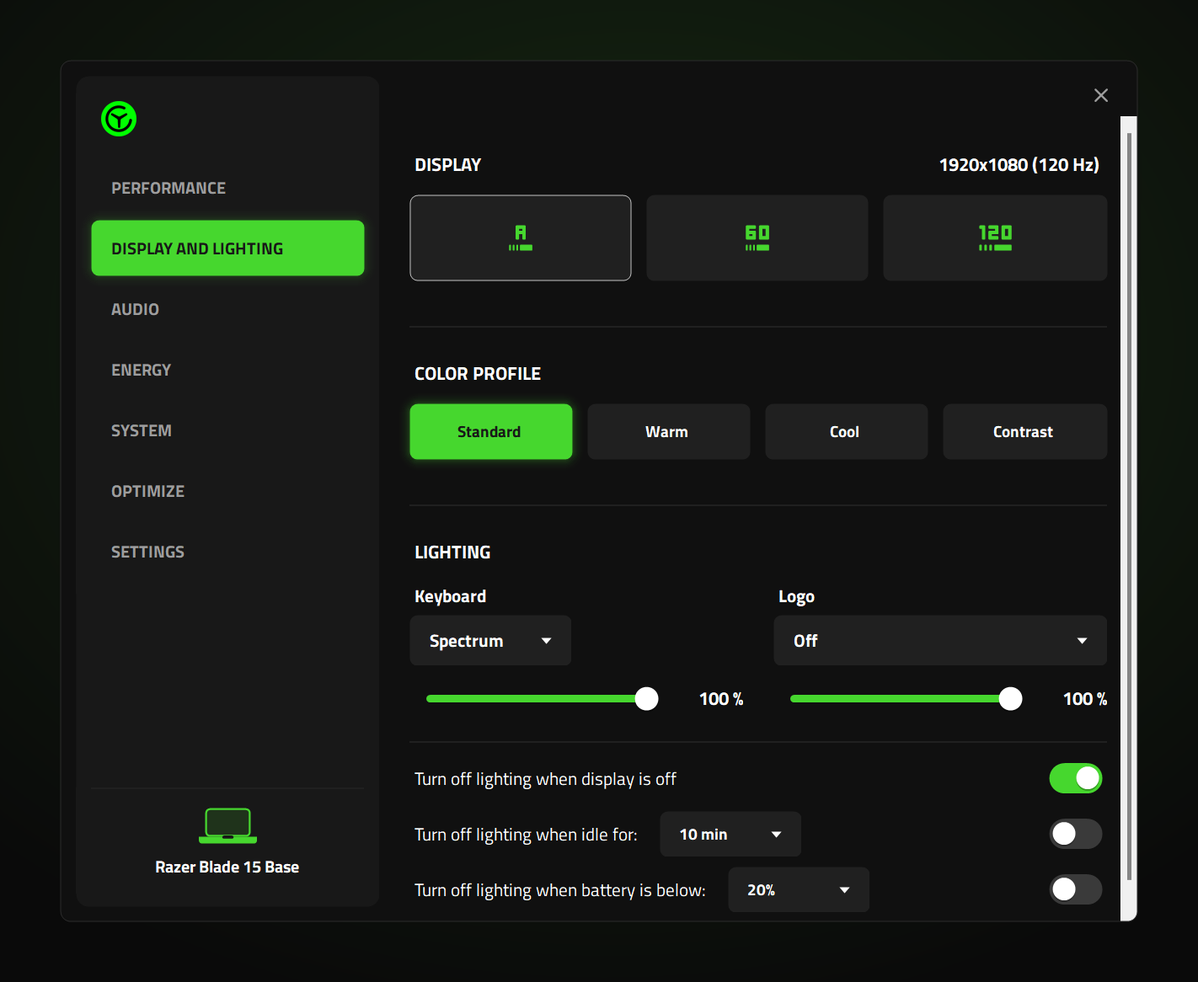
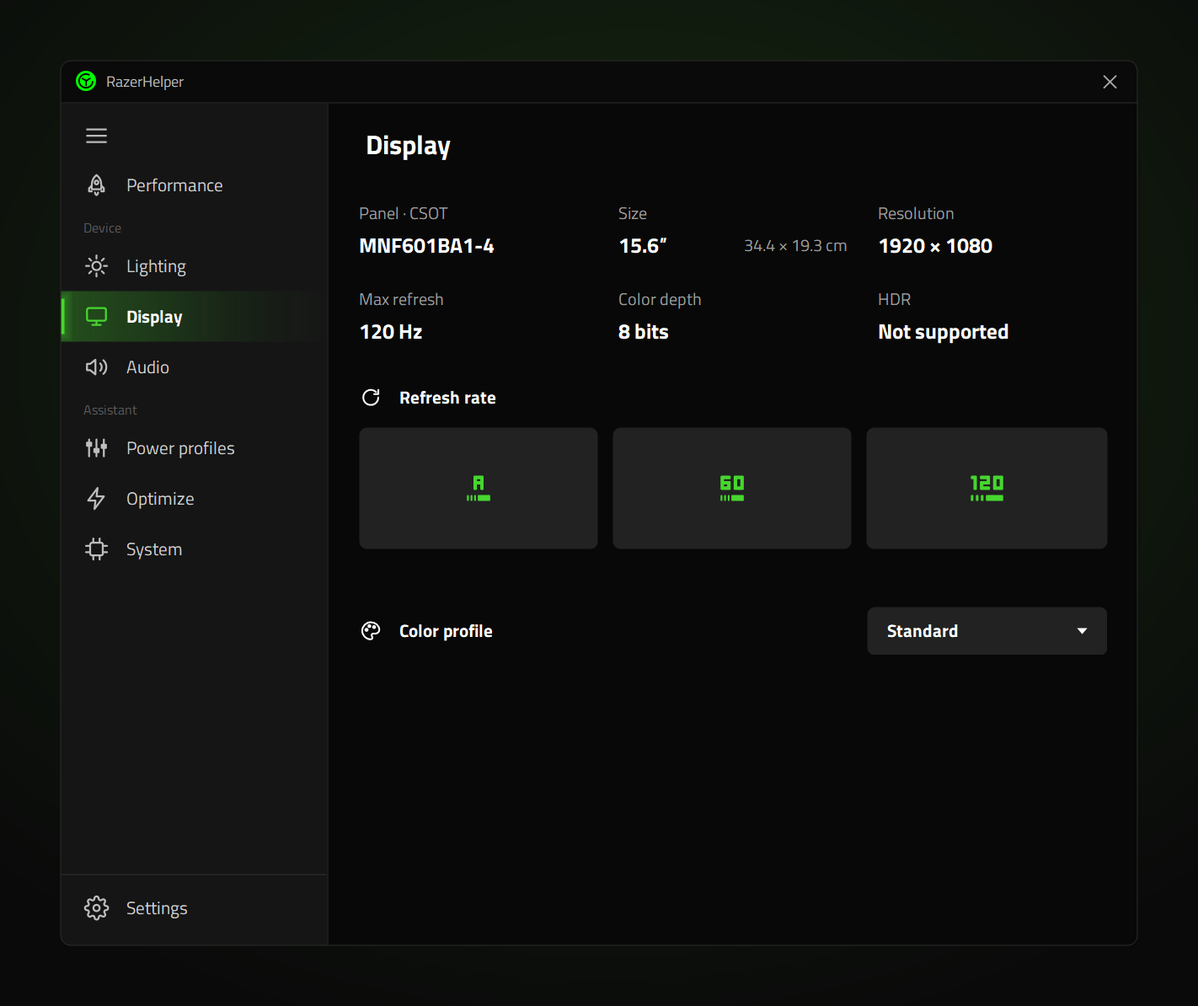
Refreshes the README previews and notes for the new layout
The previews show the title bar, the grouped sidebar with its icons and
each section under its name, with Lighting now a picture of its own. The
README and the changelog describe the sections as they are now: Lighting
and Display apart, Power profiles in place of Energy, the panel's details,
the laptop's picture in System and the lists for Custom's levels, the
power sources and the color profile. The System preview shows the line
drawing, not a photo.

diff --git a/CHANGELOG.md b/CHANGELOG.md
@@ -25,30 +25,31 @@ Changes made in this fork by [jdsgnrinfo](https://github.com/jdsgnrinfo) on top 
 
 ### Interface
 
-- **Redesign** of every window: flat sections split by thin lines with 24px of room either side, section titles in capitals, flat buttons with 6px corners (green with dark text when selected, a touch lighter under the pointer), thin round-ended sliders filling in green with a round white thumb (and a dot at each step when there are few), pill-shaped switches, green on and dark grey off, with a round white thumb that stretches while pressed and springs across on release. The main window is 600 wide.
-- **Performance modes** as large buttons, quietest first (Silent, Balanced, Custom), each with its icon in a circle. The mode that becomes active answers with a little bounce: its button, icon and glow shrink slightly and spring back a hair past their size before settling (not with Windows' animation effects off). Every other row of choices does the same: Custom's CPU and GPU levels, the refresh rates, the color profiles and the modes per power source in Energy. The mode and refresh rate buttons are a little taller, with the icons the same size.
+- **Redesign** of every window: flat sections split by thin lines with 24px of room either side, section titles with a white icon each and no lines between sections, flat buttons with 6px corners (green with dark text when selected, a touch lighter under the pointer), thin round-ended sliders filling in green with a round white thumb (and a dot at each step when there are few), pill-shaped switches, green on and dark grey off, with a round white thumb that stretches while pressed and springs across on release. The main window is 600 wide.
+- **Performance modes** as large buttons, quietest first (Silent, Balanced, Custom), each with its icon in a circle. The mode that becomes active answers with a little bounce: its button, icon and glow shrink slightly and spring back a hair past their size before settling (not with Windows' animation effects off). The refresh rates and the lighting effects do the same. The mode and refresh rate buttons are a little taller, with the icons the same size.
 - **Refresh rate buttons** show an icon instead of text: the rate in square digits over a row of bars ("A" for Auto), drawn for whatever rates the screen offers, in green like the mode icons; the name ("60 Hz", "Auto") appears under the pointer.
 - **Quicker to answer:** a performance mode or a refresh rate turns green as soon as it is clicked, without greying the other buttons while the laptop applies it (a failure puts back what was there); the keyboard and logo brightness follow the slider while it is dragged; the lighting lists no longer grey out during a change; and changing the refresh rate no longer freezes the window while the screen re-syncs.
-- **Fans** as two options with a line on what each does: Automatic RPM and Max RPM.
-- **Lighting** with the keyboard and the logo side by side.
-- **A window in sections, like Synapse:** a sidebar on the left, a rounded card set in from the window's edges with no outline, holding the logo (the symbol alone), one entry per section by name alone and, at its foot, the computer's name under a green laptop, with any error in red just above it. An X at the top right, over every section, closes the window (the app keeps running in the tray). The chosen section fills the rest, without repeating its name (the lit entry already says it): Performance (modes, fans, battery), Display and lighting, Audio, Energy, System, Optimize and Settings. The window keeps one size (852 by 708 in the base design), with room for every section, Custom's levels included, without scrolling; on a screen too short for it, the section scrolls, with dark scroll bars. Settings ends with Maintenance (Drivers, Logs and Reset as small buttons), and its foot, at the bottom edge of the window, shows the version. The footer and its buttons, and the Battery, System information, Optimize and Settings windows, became these sections; the Idle state option is gone (a plan it left switched is given back once at startup); Settings keeps only the app's own options, and the rest moved beside what they control.
-- **Profiles for each power source:** Energy shows the mode for plugged in and for on battery, under the switch that changes between them with the charger (Switch profile with the charger, from Settings); off, the modes are hidden. The mode for the source the laptop is not on is saved and applied when the charger is plugged in or unplugged.
-- **More details** on the battery in Performance goes to Energy.
-- **Power plan in Energy:** a list of the PC's power plans to choose the one Windows uses, and, while the Razer Blade plan is not installed, a green button that adds it (the same settings as `tools/RazerBladePowerPlan.ps1`, with no administrator rights) and makes it the one in use.
-- **Battery details:** each figure under its name in grey, with lines between them, and flat green bars.
+- **Settings rows:** Performance, Power profiles, Optimize and Custom's levels are lists of rows, each with its icon, its name and a line on what it does, and its control at the right; choices with several options (Custom's CPU and GPU levels, the mode per power source, the color profile) are lists. Max RPM is a switch with the fans' speeds under it.
+- **Lighting** as its own section: each effect as a picture with its name, beside a panel that names the effect, offers the colors as circles and plays it on a small keyboard, with Reset to Static in Razer green.
+- **Display details:** the panel's part number and maker, size as sold and in centimeters, native resolution, fastest refresh rate, color depth and HDR support, from the panel's EDID.
+- **System** shows the laptop's picture beside its model (a line drawing when there is none for the model), and whether its Razer controls were found.
+- **A window in sections, like Synapse:** a title bar with the logo and a close button (the app keeps running in the tray), a sidebar on the left with an icon per section, grouped under Device (Lighting, Display, Audio) and Assistant (Power profiles, Optimize, System), Performance first and Settings at the foot, the chosen entry washed in green with a glowing bar at its left; the menu button folds the sidebar down to its icons on a spring, and the app remembers it. Each section opens under its name. The window keeps one width, with room for every section, Custom's levels and the battery's figures included, without scrolling; on a screen too short for it, the section scrolls, with dark scroll bars. Settings ends with Maintenance (Drivers, Logs and Reset as small buttons) and the version. The footer and its buttons, and the Battery, System information, Optimize and Settings windows, became these sections; the Idle state option is gone (a plan it left switched is given back once at startup); Settings keeps only the app's own options, and the rest moved beside what they control.
+- **Profiles for each power source:** Power profiles shows the mode for plugged in and for on battery, under the switch that changes between them with the charger (Switch profile with the charger, from Settings); off, the modes are hidden. The mode for the source the laptop is not on is saved and applied when the charger is plugged in or unplugged.
+- **Power plan in Power profiles:** a list of the PC's power plans to choose the one Windows uses, and, while the Razer Blade plan is not installed, a green button that adds it (the same settings as `tools/RazerBladePowerPlan.ps1`, with no administrator rights) and makes it the one in use.
+- **Battery details:** three to a row, each figure with its note beside it, and flat green bars for charge and health.
 - Every window takes its rounded corners and border from Windows 11.
 - **New icons** for the performance modes: Balanced and Silent designed for this fork, Custom and the CPU and GPU from open icon sets; see the credits in the README.
 - **Usage rings** under the performance modes (and under Custom's levels when open): how busy the CPU, the GPU and the RAM are, each ring three quarters of a circle filling in green, with the CPU's and GPU's temperature and clock beside theirs and the RAM's speed and free memory beside its own. Read once a second, only while Performance is on screen; a sleeping GPU shows as asleep rather than being woken. They replace the temperatures that were in the Performance header.
-- **A soft glow** around the selected green buttons: the performance modes, Custom's levels, the refresh rates, the profiles in Energy and Install Razer Blade plan.
-- **The sidebar's sections** are named in capitals, with no icons, and the lit one is filled green with dark text and a soft green glow, 30% lighter than the other selected buttons'. The green pill glides to the next section on a spring, and a faint green highlight follows the pointer or the arrow keys from entry to entry: it fades in where the pointer comes in, travels between entries, and fades out when it leaves. A name changes color right at the edge of the pill or the highlight passing over it (dark under the pill, green under the highlight), and a press dips it a touch while the highlight deepens. Enter or Space opens the entry the keys are on.| GPU: 45°C".
-- **Custom's levels** use the same font as Energy's profile buttons, so "Medium" fits whole; the automatic fan's hint is shorter in English, so it no longer gets cut off.
+- **A soft glow** around the selected green buttons: the performance modes, the refresh rates and Install Razer Blade plan.
+- **The sidebar's sections** each have an outlined icon (a rocket for Performance, a lightning bolt for Optimize). The lit one is washed in green from the left with a glowing green bar at its edge, and the wash glides to the next section on a spring; a faint highlight follows the pointer or the arrow keys from entry to entry. Enter or Space opens the entry the keys are on.
+- The automatic fan's hint is shorter in English, so it no longer gets cut off.
 - **Optimize's buttons** give their place to the turning circle System shows while it reads, for as long as Free up memory, Temporary files or Free up GPU is working. The loader is a green ring of four arcs that turns while the arcs breathe. When the job ends, the turning stops a little further on and the arcs close one after another into a whole circle, green, or red if the job failed, which pops once before the button comes back. With Windows' animation effects off it shows a still ring or the whole circle.
 - **GitHub** beside the version in Settings opens the project's page; grey, green under the pointer, like Close.
 - **Optimize** gains **NVIDIA shader cache**, which shows the size of the graphics driver's shader cache and clears it (files a game has open stay), and **Hibernation**, a switch that shows the size of the hibernation file and turns hibernation off or on with administrator permission (off also turns off fast startup).
 - **Color profile** in Display and lighting: Standard, Warm, Cool or Contrast, applied at once to every screen through its gamma ramp and remembered. Standard and closing the app give each screen back the ramp it had; the profile is put back after sleep, the screen turning on or a change of screen.
 - **Temporary files** also counts and clears the Recycle Bin (after asking, as it cannot be undone) and, with administrator permission, Windows Update's old downloads and Delivery Optimization's cache.
 - **Lighting off by itself**, one line each in Display and lighting with its switch: with the screen (as before), after an idle time (1 to 30 minutes, without a key or the mouse) and on battery below a charge (10 to 50%). The light stays off while any of them holds and comes back once none does.
-- **New previews** in the README: one picture of each section (Performance, Custom, Display and lighting, Audio, Energy, System, Optimize, Settings), drawn at 1.5 times the base size, with a short summary of each.
+- **New previews** in the README: one picture of each section (Performance, Custom, Lighting, Display, Audio, Power profiles, System, Optimize, Settings), drawn at 1.5 times the base size, with a short summary of each.
 - The charge limit slider shows the chosen limit at its right, like the lighting sliders.
 - **Any percentage on every slider:** the charge limit takes any value from 60% to 100% (it offered only 60, 80 and 100) and the lighting brightness any value from 0% to 100% (it went in steps of 5). The thumb follows the pointer while dragging and glides into place on release.
 - **Sliders on springs,** the charge limit, the lighting brightness, the audio boosts and the equalizer's bands alike: the thumb follows the pointer exactly and grows a little while held; a click on the track springs it over from where it was; a quick release carries it at most a step further before it settles; pulled past an end it gives like rubber and comes back; a key pressed at an end makes it push and spring back. A green bubble over the thumb shows the value while it moves, and the numbers beside the sliders and above the bands roll to each new value. A new equalizer curve (a preset, another device, Reset) sweeps in band by band. The equalizer also takes the keys: Left and Right pick a band, Up and Down move it, Shift or Page Up and Page Down by 3 dB, Home and End to the ends. With Windows' animation effects off, all of it moves at once instead.
@@ -60,7 +61,7 @@ Changes made in this fork by [jdsgnrinfo](https://github.com/jdsgnrinfo) on top 
 ### New windows and sections
 
 - **Custom:** the CPU and GPU boost levels open under the mode buttons while the laptop is in Custom, the CPU on the left and the GPU on the right. They fold away by themselves if the laptop leaves Custom, and the window keeps room for them, so it never changes size.
-- **Battery details** (top of Energy): power in or out, time left or to full, charge, health against the design capacity, voltage and the battery itself.
+- **Battery details** (top of Power profiles): power in or out, time left or to full, charge, health against the design capacity, voltage and the battery itself.
 - **Audio** (its own section, after Display and lighting): the output devices plugged in, in a list that shows the one Windows plays to and switches Windows to the one picked (for games and music, calls and system sounds alike), and an equalizer for each device: ten bands from 31 Hz to 16 kHz, ±12 dB in half steps, drawn as upright sliders with a green, softly glowing curve through them that follows them as they move (drag, scroll, or double-click back to 0); Reset, in grey turning green beside the title, back to flat with the boosts off; and a switch that turns it off without losing the curve. Under the curve, Bass enhancer (a low shelf at 120 Hz, 1 dB a level), Dynamic boost (both ends and 3 kHz, for a fuller, punchier sound) and Clarity (2 kHz and a high shelf from 5 kHz, for crisper voices and detail), each from 0 to 10, are added to any preset. No preamp to set: each device is turned down by as much as its curve and boosts lift its loudest frequency, so nothing clips. Presets: Flat, Bass boost, Treble boost, Vocal, Gaming and Loudness, plus your own with Save, New (asks for a name) and Delete. The sound goes through Equalizer APO, installed separately: the app writes each device's curve into its config.txt (keeping the file it found as config.before-RazerHelper.txt), which plays at once and needs no administrator rights. Without Equalizer APO, a line at the bottom says it is needed, with a green button to its download page; installed but not on the chosen device, the button opens its Device Selector (as administrator) and the line goes once the device is ticked; both hide when it plays.
 - **System information** (the System section, read the first time it is shown): Windows, CPU, integrated and dedicated GPU, RAM in use, each drive letter with its drive and free space, and the BIOS, with the laptop model as the header.
 

diff --git a/README.md b/README.md
@@ -14,43 +14,48 @@ It lives in the system tray, talks to the laptop's controller directly, and need
 
 ## Preview
 
-One window, in sections, like Synapse: a sidebar on the left and the chosen section beside it.
+One window, in sections, like Synapse: a title bar with the logo and a close button, a sidebar on the left with the sections grouped and an icon each (the menu button folds it down to its icons), and the chosen section beside it, under its name.
 
-- **Performance:** Silent, Balanced and Custom as large buttons, with live CPU, GPU and RAM usage rings, temperatures and clocks under them, the fans, and the battery charge limit.
-- **Custom levels in place:** choosing Custom opens the CPU and GPU boost levels right under the modes.
-- **Display and lighting:** refresh rate (Auto, 60 Hz, 120 Hz), color profile (Standard, Warm, Cool, Contrast), keyboard and logo effects with their brightness, and the keyboard light turned off with the screen, after a chosen idle time, or below a chosen battery charge.
+- **Performance:** Silent, Balanced and Custom as large buttons, then the system monitor (live CPU, GPU and RAM usage rings with temperatures and clocks), the battery charge limit and Max RPM with the fans' speeds.
+- **Custom levels in place:** choosing Custom opens a list for the CPU and one for the GPU boost levels right under the modes.
+- **Lighting:** the keyboard's and the logo's effects as pictures with their brightness, beside a panel that names the effect, offers the colors and plays it on a small keyboard; and the keyboard light turned off with the screen, after a chosen idle time, or below a chosen battery charge.
+- **Display:** the panel's part number and maker, size, native resolution, fastest refresh rate, color depth and HDR support, read from the panel itself; the refresh rate (Auto, 60 Hz, 120 Hz) and a list of color profiles (Standard, Warm, Cool, Contrast).
 - **Audio:** the output device, which switches Windows' sound to it, and its own 10-band equalizer with presets and a green curve that follows the sliders, plus Bass enhancer, Dynamic boost and Clarity (ten levels each), played through the free Equalizer APO.
-- **Energy:** live battery details, a performance profile for plugged in and for on battery, and Windows' power plan, with one click to install the Razer Blade plan.
-- **System:** the model, Windows, CPU, both GPUs, RAM, BIOS and the drives with their space.
+- **Power profiles:** the battery's figures, compact, a list of modes for plugged in and for on battery, and Windows' power plan, with one click to install the Razer Blade plan.
+- **System:** the laptop's picture beside its model and whether its Razer controls were found, then Windows, CPU, both GPUs, RAM, BIOS and the drives with their space.
 - **Optimize:** free up memory, clean temporary files, the Recycle Bin, Windows Update's and Delivery Optimization's caches and the NVIDIA shader cache, close the apps keeping the dedicated GPU awake, and turn off hibernation to free its file.
 - **Settings:** language, start at login, hide when clicking away, always on top, performance mode shortcuts, maintenance, and a link to the project on GitHub beside the version.
 
 <p align="center">
-  <img src="docs/images/preview-performance.png" width="800" alt="RazerHelper's Performance section: the Silent, Balanced and Custom mode buttons with Balanced selected, CPU, GPU and RAM usage rings with temperature, clock, memory speed and free memory, the fans set to automatic, and the battery charge limit">
+  <img src="docs/images/preview-performance.png" width="800" alt="RazerHelper's Performance section: the sidebar with Performance lit, the Silent, Balanced and Custom mode buttons with Balanced selected, the system monitor with CPU, GPU and RAM usage rings, temperatures, clocks, memory speed and free memory, the charge limit slider and the Max RPM switch">
 </p>
 
 <p align="center">
-  <img src="docs/images/preview-custom.png" width="800" alt="The Performance section in Custom mode: CPU boost levels Low, Medium, High and Boost, and GPU levels Low, Medium and High, open under the mode buttons">
+  <img src="docs/images/preview-custom.png" width="800" alt="The Performance section in Custom mode: rows for the CPU and the GPU under the mode buttons, each with a list of its boost levels">
 </p>
 
 <p align="center">
-  <img src="docs/images/preview-display.png" width="800" alt="The Display and lighting section: refresh rate buttons Auto, 60 and 120 Hz, color profile buttons Standard, Warm, Cool and Contrast, keyboard and logo lighting effects with brightness sliders, and switches to turn the lighting off with the screen, after an idle time (10 min) and below a battery charge (20%)">
+  <img src="docs/images/preview-lighting.png" width="800" alt="The Lighting section: the keyboard's effects Static, Breathing, Spectrum and Off and the logo's Static, Breathing and Off as pictures with brightness sliders, a panel beside them naming the effect with Reset, the colors as circles and a small keyboard playing it, and switches to turn the lighting off with the screen, after an idle time (10 min) and below a battery charge (20%)">
 </p>
 
 <p align="center">
-  <img src="docs/images/preview-audio.png" width="800" alt="The Audio section: the output device list, the equalizer switched on with the Bass boost preset and Save, New and Delete, ten band sliders from 31 Hz to 16 kHz with a green curve through them, Reset and the on/off switch beside the title, and the Bass enhancer, Dynamic boost and Clarity sliders under the curve">
+  <img src="docs/images/preview-display.png" width="800" alt="The Display section: the panel's part number and maker, size, resolution, fastest refresh rate, color depth and HDR support, the refresh rate buttons Auto, 60 and 120 Hz, and the color profile list set to Standard">
 </p>
 
 <p align="center">
-  <img src="docs/images/preview-energy.png" width="800" alt="The Energy section: battery power, time left, charge, health, voltage and type, the power source profiles for plugged in and on battery, and the power plan list with the Install Razer Blade plan button">
+  <img src="docs/images/preview-audio.png" width="800" alt="The Audio section: the output device row with its list, the equalizer switched on with the Bass boost preset filling the row before Reset, Save, New and Delete, ten band sliders from 31 Hz to 16 kHz with a green curve through them, and the Bass enhancer, Dynamic boost and Clarity sliders under the curve">
 </p>
 
 <p align="center">
-  <img src="docs/images/preview-system.png" width="800" alt="The System section: model, operating system, CPU, integrated and dedicated GPU, RAM in use, BIOS and the system drive's space">
+  <img src="docs/images/preview-energy.png" width="800" alt="The Power profiles section: the battery's charge, health and voltage three to a row, the power source profiles switch with lists for plugged in and on battery, and the power plan list with the Install Razer Blade plan button">
 </p>
 
 <p align="center">
-  <img src="docs/images/preview-optimize.png" width="800" alt="The Optimize section: free up memory, temporary files to clean, the NVIDIA shader cache to clear, free up GPU, the free up GPU when unplugged switch, and the hibernation switch with the size of its file">
+  <img src="docs/images/preview-system.png" width="800" alt="The System section: a laptop drawn in fine lines beside the model, its maker and Razer controls connected, then the operating system, CPU, integrated and dedicated GPU, RAM in use, BIOS and the system drive's space">
+</p>
+
+<p align="center">
+  <img src="docs/images/preview-optimize.png" width="800" alt="The Optimize section: free up memory, temporary files to clean, the NVIDIA shader cache to clear, free up GPU, the free up GPU when unplugged switch, and the hibernation switch">
 </p>
 
 <p align="center">
@@ -75,20 +80,21 @@ Everything the original does still works the same way; on top of it:
 - **Dark tray menu:** the right-click menu of the tray icon in the app's dark style, with rounded corners.
 - **Three performance modes on every model:** Balanced, Silent and Custom, which now carries the game controller icon. Gaming is no longer offered; a profile saved with it is applied as Custom.
 - **Redesigned interface:** a flatter, more compact look for every window, rounded corners from Windows 11, and new icons.
-- **A window in sections, like Synapse:** a sidebar on the left (Performance, Display and lighting, Audio, Energy, System, Optimize, Settings, and the computer's name at the bottom) and the chosen section beside it, with an X at the top right that closes the window to the tray.
-- **Custom levels in place:** choosing Custom opens its CPU and GPU levels under the mode buttons, side by side.
-- **Battery details** (in Energy, or More details on the battery): power in or out, time left, charge, health, voltage.
-- **System information** (the System section): Windows, CPU, integrated and dedicated GPU, RAM, drives with their space, and BIOS.
-- **Profiles for each power source** chosen in Energy: the mode for plugged in and for on battery, under the switch that changes between them with the charger.
-- **Keyboard light off by itself** (optional, in Display and lighting): with the screen, after 1 to 30 minutes without a key or the mouse, or on battery below 10 to 50%. It comes back at the brightness it had once none of these holds (a key press after idle brings it back within a second).
+- **A window in sections, like Synapse:** a title bar with the logo and a close button that sends the window to the tray, and a sidebar on the left with an icon per section, grouped under Device (Lighting, Display, Audio) and Assistant (Power profiles, Optimize, System), Performance first and Settings at the foot; the menu button folds it down to its icons, and the app remembers it.
+- **Custom levels in place:** choosing Custom opens a list for the CPU and one for the GPU levels under the mode buttons.
+- **Battery details** (in Power profiles): power in or out, time left, charge, health, voltage.
+- **Display details** (the Display section): the panel's part number and maker, size, native resolution, fastest refresh rate, color depth and HDR support, read from the panel's own EDID.
+- **System information** (the System section): the laptop's picture beside its model, Windows, CPU, integrated and dedicated GPU, RAM, drives with their space, and BIOS.
+- **Profiles for each power source** chosen in Power profiles: the mode for plugged in and for on battery, under the switch that changes between them with the charger.
+- **Keyboard light off by itself** (optional, in Lighting): with the screen, after 1 to 30 minutes without a key or the mouse, or on battery below 10 to 50%. It comes back at the brightness it had once none of these holds (a key press after idle brings it back within a second).
 - **Audio equalizer** (the Audio section): pick an output device (Windows switches to it) and give it its own 10-band equalizer, with presets of the app's and your own; it plays through [Equalizer APO](https://sourceforge.net/projects/equalizerapo/), which is installed separately.
-- **Razer Blade power plan** (optional): a Windows power plan for cooler, quieter rest and longer battery, added with a script or with one click in Energy; see [Razer Blade power plan](#razer-blade-power-plan-optional).
+- **Razer Blade power plan** (optional): a Windows power plan for cooler, quieter rest and longer battery, added with a script or with one click in Power profiles; see [Razer Blade power plan](#razer-blade-power-plan-optional).
 - **Experimental:** on the Blade 15 Base (2020), Max fan asks the controller for 10000 RPM (the original asks for 7000). The fans cannot go beyond their own maximum either way; this is being tested and may go back to 7000.
 
 ## What it does today
 
 - **Performance modes:** Balanced, Silent and Custom, with CPU and GPU boost levels in Custom, on every model.
-- **Power profiles:** separate settings for plugged in and on battery, applied automatically when you plug or unplug. Both are chosen in Energy, under the switch that turns the automatic change on or off. On battery Balanced and Silent are offered (Synapse offers only Balanced); Custom needs the charger.
+- **Power profiles:** separate settings for plugged in and on battery, applied automatically when you plug or unplug. Both are chosen in Power profiles, under the switch that turns the automatic change on or off. On battery Balanced and Silent are offered (Synapse offers only Balanced); Custom needs the charger.
 - **Battery charge limit:** any percentage from 60% to 100% (no limit).
 - **Display refresh rate:** 60 Hz, 120 Hz, or Auto, which follows the power source.
 - **Color profile:** Standard, Warm (less blue, about 5000 K, easier on the eyes at night), Cool (about 8000 K) or Contrast (darker shadows, brighter highlights), on every screen and in every app, games included. It changes the curve the graphics card sends the colors through, as f.lux does, and needs no administrator rights. Standard, and closing the app, give the screen back exactly the curve it had (a calibration included). It is put back after sleep or a change of screen, when Windows may reset it. It cannot make colors more saturated, and it adds to Windows' Night light if that is on.
@@ -184,7 +190,7 @@ powershell -ExecutionPolicy Bypass -File .\tools\RazerBladePowerPlan.ps1 -Activa
 
 Leave out `-Activate` to add it without switching to it, and choose it later in Control Panel > Power Options. `-Remove` takes it away again.
 
-In RazerHelper itself, **Energy** lists your power plans to choose the one Windows uses, and while this plan is not on your PC, the green **Install Razer Blade plan** button adds it and switches to it, with the same settings as the script.
+In RazerHelper itself, **Power profiles** lists your power plans to choose the one Windows uses, and while this plan is not on your PC, the green **Install Razer Blade plan** button adds it and switches to it, with the same settings as the script.
 
 ## Requirements
 
